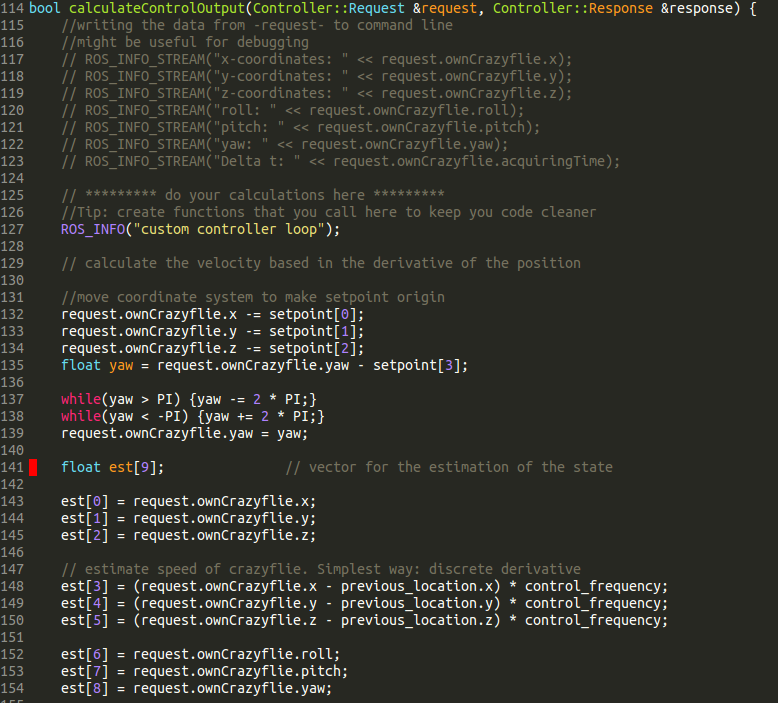
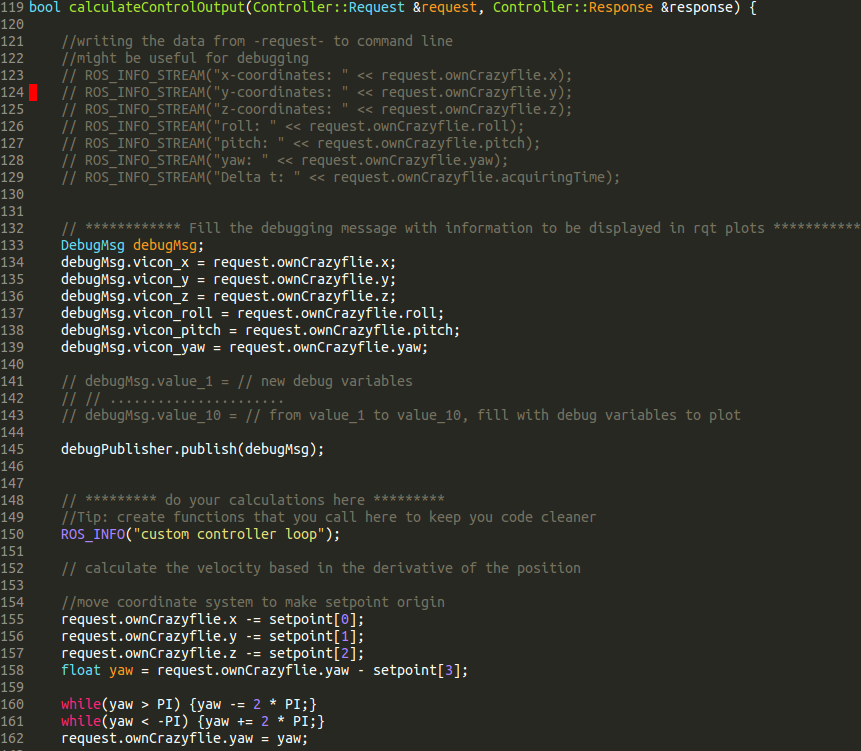
added wiki for how to plot

Changed region(s): [[0.0, 0.0, 0.9563, 1.0], [0.0617, 0.2688, 1.0, 0.6273]]

diff --git a/pps_ws/src/d_fall_pps/src/CustomControllerService.cpp b/pps_ws/src/d_fall_pps/src/CustomControllerService.cpp
@@ -129,7 +129,7 @@ bool calculateControlOutput(Controller::Request &request, Controller::Response &
     // ROS_INFO_STREAM("Delta t: " << request.ownCrazyflie.acquiringTime);
 
 
-    // ************ Fill the debugging message with information to be displayed in rqt_plot ****************
+    // ************ Fill the debugging message with information to be displayed in rqt plots ****************
     DebugMsg debugMsg;
     debugMsg.vicon_x = request.ownCrazyflie.x;
     debugMsg.vicon_y = request.ownCrazyflie.y;

diff --git a/pps_wiki/workflow_for_students.md b/pps_wiki/workflow_for_students.md
@@ -208,6 +208,34 @@ to it*
    the GUI. This way, you can try and see the effect of changing some parameters
    on the fly.
 
+
+#### Steps to plot debug variables from Custom Controller in a graph
+
+1. Choose the variables that we want to see in a plot from the file
+   `CustomControllerService.cpp`. Inside the function `calculateControlOutput`,
+   a part where we fill a DebugMsg with data has been written (lines 133-145 in
+   previous figure). Vicon data has already been filled in (vicon\_x,
+   vicon\_y,...). Additionally, there are up to 10 general purpose variables
+   that can be filled with any data we may be interested in plotting (value\_1,
+   value\_2,...., value\_10). <br><br>
+2. Once chosen the variables, save the file and go to `cd ~/work/D-FaLL-System/pps_ws` and write `catkin_make`.<br><br>
+3. Open another terminal and type `rqt`. Then, in the top bar, go to
+   Plugins->Visualization->Plot. A new plot will be added to the screen. If you
+   want more than one plot, just add several ones doing the same thing. You will
+   be seeing something like this:<br><br>
+
+    <img src="./pics/rqt_window_subplots.png" style="width: 400px;"/> <br><br>
+4. In each subplot, to add data to plot, write the name of the topic you want to
+   plot in the field "Topic", e.g., if we want to plot the Z position of our
+   crazyflie, we would have to write here
+   `/<student_id>/CustomControllerService/DebugTopic/vicon_z`. You can see an
+   autocompletion of the
+   list of all the topics available when you start typing in the field "Topic". <br><br>
+3. Start the Student node following the steps mentioned before (`roslaunch
+   d_fall_pps Student.launch`) and enable the Custom Controller.<br><br>
+4. Once we are using the Custom Controller, we will be seeing how the data
+   selected gets plotted in the rqt plots.
+
 <!-- --- -->
 
 
